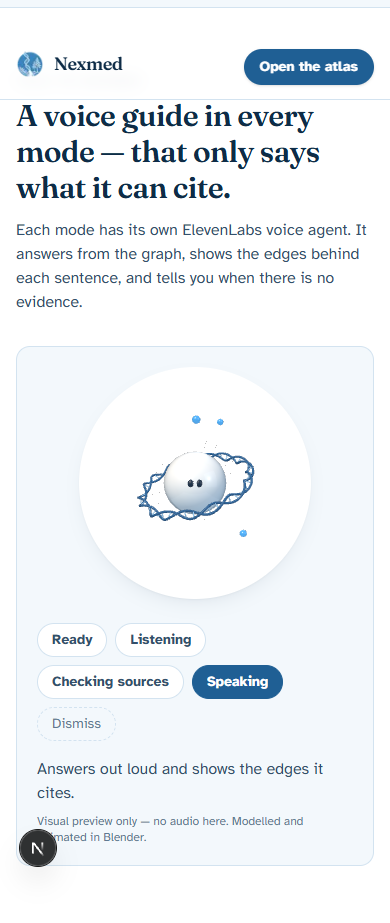
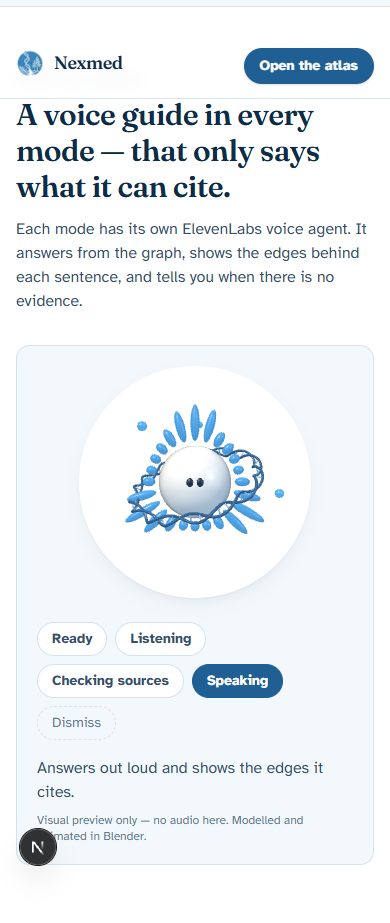
fix(brand): no horizontal overflow at 390 px; graph square on mobile; growth replay reveals edges after their nodes

diff --git a/src/components/three/HeroModel.tsx b/src/components/three/HeroModel.tsx
@@ -12,7 +12,9 @@ import { useEffect, useMemo, useRef } from "react";
 import * as THREE from "three";
 import { DRACO_PATH, MODELS } from "./palette";
 
-const GROW_SECONDS = 2.4;
+// Growth replay: the helix rises first, the graph edges follow once their nodes have popped in.
+const HELIX_GROW = [0, 1.7] as const;
+const EDGE_GROW = [1.0, 2.6] as const;
 const MODEL_TOP = 2.35; // metres, Blender z -> three y
 
 export interface HeroModelProps {
@@ -28,20 +30,24 @@ export function HeroModel({ replay = 0, onReady, parallax = 0.12 }: HeroModelPro
   const { scene, animations } = useGLTF(MODELS.hero, DRACO_PATH);
   const group = useRef<THREE.Group>(null);
   const mixer = useMemo(() => new THREE.AnimationMixer(scene), [scene]);
-  const plane = useMemo(() => new THREE.Plane(new THREE.Vector3(0, -1, 0), MODEL_TOP), []);
+  const helixPlane = useMemo(() => new THREE.Plane(new THREE.Vector3(0, -1, 0), MODEL_TOP), []);
+  const edgePlane = useMemo(() => new THREE.Plane(new THREE.Vector3(0, -1, 0), MODEL_TOP), []);
   const grow = useRef<number | null>(null); // seconds into the growth, null = idle
   const ready = useRef(false);
 
   // Helix, base pairs and graph edges are revealed by the rising clipping plane during a replay.
   useEffect(() => {
-    const clipped = new Set(["MAT-strand", "MAT-rung-a", "MAT-rung-b", "MAT-edge"]);
+    const helix = new Set(["MAT-strand", "MAT-rung-a", "MAT-rung-b"]);
     scene.traverse((o) => {
       const mesh = o as THREE.Mesh;
       if (!mesh.isMesh) return;
       const mats = Array.isArray(mesh.material) ? mesh.material : [mesh.material];
-      for (const m of mats) if (clipped.has(m.name)) m.clippingPlanes = [plane];
+      for (const m of mats) {
+        if (helix.has(m.name)) m.clippingPlanes = [helixPlane];
+        if (m.name === "MAT-edge") m.clippingPlanes = [edgePlane];
+      }
     });
-  }, [scene, plane]);
+  }, [scene, helixPlane, edgePlane]);
 
   const idleAction = useMemo(() => {
     const clip = THREE.AnimationClip.findByName(animations, "Idle");
@@ -79,9 +85,13 @@ export function HeroModel({ replay = 0, onReady, parallax = 0.12 }: HeroModelPro
     mixer.update(dt);
     if (grow.current !== null) {
       grow.current += dt;
-      const t = Math.min(1, grow.current / GROW_SECONDS);
-      plane.constant = 0.12 + (MODEL_TOP - 0.12) * (1 - Math.pow(1 - t, 3));
-      if (t >= 1) grow.current = null;
+      const rise = (plane: THREE.Plane, [from, to]: readonly [number, number]) => {
+        const t = Math.min(1, Math.max(0, (grow.current! - from) / (to - from)));
+        plane.constant = 0.12 + (MODEL_TOP - 0.12) * (1 - Math.pow(1 - t, 3));
+      };
+      rise(helixPlane, HELIX_GROW);
+      rise(edgePlane, EDGE_GROW);
+      if (grow.current >= EDGE_GROW[1]) grow.current = null;
     }
     const g = group.current;
     if (g) {

diff --git a/src/app/page.tsx b/src/app/page.tsx
@@ -69,7 +69,7 @@ function EdgeCard({ edge, from, to, sourceName, label }: { edge: Edge; from: str
         {from} <span className="font-normal text-ink-3">→ {edge.relation.replace(/_/g, " ")} →</span> {to}
       </p>
       <div className={`mt-3 w-16 ${inferred ? "kind-inferred" : "kind-observed"}`} aria-hidden />
-      <dl className="mt-3 grid grid-cols-[auto_1fr] gap-x-3 gap-y-1 text-sm">
+      <dl className="mt-3 grid grid-cols-[auto_minmax(0,1fr)] gap-x-3 gap-y-1 text-sm [&_dd]:break-words">
         <dt className="text-ink-3">Kind</dt><dd className="text-ink-2">{edge.kind}</dd>
         <dt className="text-ink-3">Confidence</dt>
         <dd className="text-ink-2">
@@ -79,7 +79,7 @@ function EdgeCard({ edge, from, to, sourceName, label }: { edge: Edge; from: str
         <dt className="text-ink-3">Source</dt>
         <dd className="text-ink-2">
           {ev?.url ? <a href={ev.url} target="_blank" rel="noreferrer" className="text-brand-deep underline decoration-brand-light underline-offset-2 hover:decoration-brand-deep">{sourceName}</a> : sourceName}
-          {ev?.external_id && <span className="mono ml-1.5 text-xs text-ink-3">{ev.external_id}</span>}
+          {ev?.external_id && <span className="mono ml-1.5 break-all text-xs text-ink-3">{ev.external_id}</span>}
         </dd>
         {ev?.retrieved_at && (<><dt className="text-ink-3">Read on</dt><dd className="text-ink-2">{ev.retrieved_at.slice(0, 10)}</dd></>)}
       </dl>
@@ -201,7 +201,7 @@ export default async function Home() {
         {/* Inside the atlas: a real neighbourhood in 3D (Blender glyphs) */}
         {hood && (
           <section className="mx-auto max-w-6xl px-4 py-16 sm:px-6" aria-labelledby="inside-title">
-            <div className="grid items-center gap-10 lg:grid-cols-[1.25fr_.75fr]">
+            <div className="grid grid-cols-1 items-center gap-10 lg:grid-cols-[1.25fr_.75fr] [&>*]:min-w-0">
               <AtlasPreview data={hood} />
               <div>
                 <p className="eyebrow">Inside the atlas</p>
@@ -241,7 +241,7 @@ export default async function Home() {
 
         {/* Every edge shows its source */}
         <section id="evidence" className="border-y border-line bg-brand-mist" aria-labelledby="evidence-title">
-          <div className="mx-auto grid max-w-6xl gap-10 px-4 py-16 sm:px-6 lg:grid-cols-[1fr_1fr]">
+          <div className="mx-auto grid max-w-6xl grid-cols-1 gap-10 px-4 py-16 sm:px-6 lg:grid-cols-2 [&>*]:min-w-0">
             <div>
               <p className="eyebrow">Every edge shows its source</p>
               <h2 id="evidence-title" className="display mt-2 text-3xl font-semibold text-brand-ink sm:text-4xl">Observed is never confused with inferred.</h2>

diff --git a/src/components/landing/AtlasPreview.tsx b/src/components/landing/AtlasPreview.tsx
@@ -34,13 +34,13 @@ function FlatGraph({ data }: { data: Neighborhood }) {
 export function AtlasPreview({ data }: { data: Neighborhood }) {
   const can3d = useCan3D();
   return (
-    <div className="relative aspect-[4/3] w-full overflow-hidden rounded-2xl border border-line bg-[radial-gradient(70%_70%_at_50%_45%,var(--paper),var(--brand-mist))]">
+    <div className="relative aspect-square w-full overflow-hidden rounded-2xl sm:aspect-[4/3] border border-line bg-[radial-gradient(70%_70%_at_50%_45%,var(--paper),var(--brand-mist))]">
       {can3d === "3d" ? (
         <GlyphGraph data={data} className="absolute inset-0" />
       ) : (
         <div className="absolute inset-0 p-4"><FlatGraph data={data} /></div>
       )}
-      <p className="pointer-events-none absolute bottom-3 left-4 text-xs text-ink-3">{can3d === "3d" ? "Hover a shape to see what it is" : "Static view"}</p>
+      <p className="pointer-events-none absolute bottom-3 left-4 text-xs text-ink-3">{can3d === "3d" ? "Hover or tap a shape to see what it is" : "Static view"}</p>
     </div>
   );
 }
